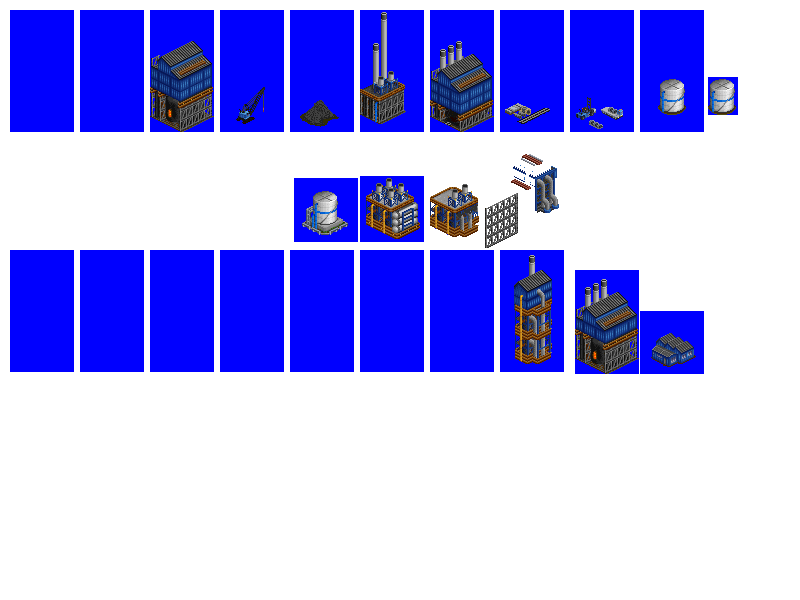
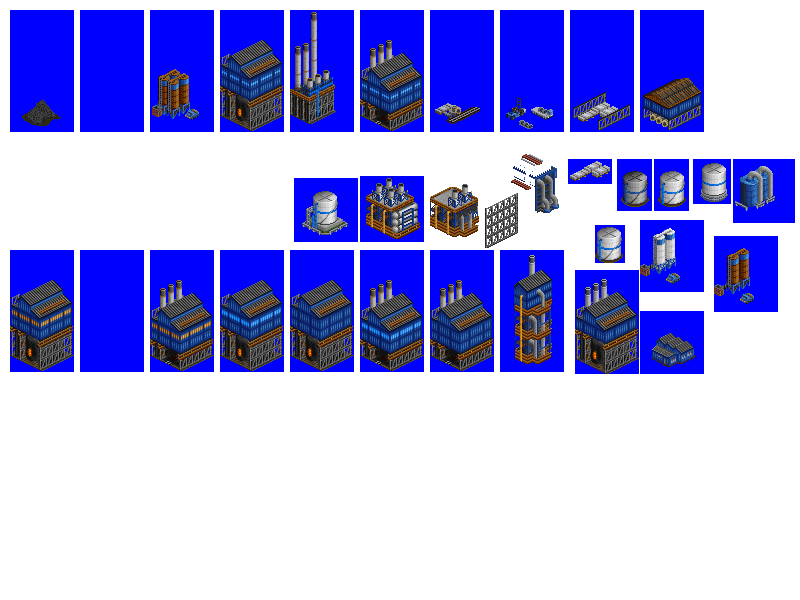
Change: improved sprites for Basic Oxygen Furnace

diff --git a/src/industries/basic_oxygen_furnace.py b/src/industries/basic_oxygen_furnace.py
@@ -33,43 +33,44 @@ sprite_ground_overlay = industry.add_spriteset(
     type='empty',
 )
 # unused
-"""
-spriteset_roaster_1 = industry.add_spriteset(
-    sprites = [(80, 10, 64, 122, -31, -90)],
-)
-spriteset_chimney = industry.add_spriteset(
-    sprites=[(150, 10, 64, 122, -31, -90)],
-)
-"""
-spriteset_furnace_1 = industry.add_spriteset(
-    sprites=[(150, 10, 64, 122, -31, -90)],
-)
-spriteset_crane = industry.add_spriteset(
-    sprites=[(220, 10, 64, 122, -31, -90)],
-)
 spriteset_manganese_1 = industry.add_spriteset(
-    sprites=[(290, 10, 64, 122, -31, -90)],
-)
-spriteset_air_plant_2 = industry.add_spriteset(
-    sprites=[(360, 10, 64, 122, -31, -90)],
-)
-spriteset_furnace_2 = industry.add_spriteset(
-    sprites=[(430, 10, 64, 122, -31, -90)],
-)
-spriteset_metal_1 = industry.add_spriteset(
-    sprites=[(500, 10, 64, 122, -31, -90)],
-)
-spriteset_metal_2 = industry.add_spriteset(
-    sprites=[(570, 10, 64, 122, -31, -90)],
+    sprites=[(10, 10, 64, 122, -31, -90)],
 )
 spriteset_tanks = industry.add_spriteset(
+    sprites=[(150, 10, 64, 122, -31, -90)],
+)
+spriteset_furnace = industry.add_spriteset(
+    sprites=[(220, 10, 64, 122, -31, -90)],
+)
+spriteset_air_plant = industry.add_spriteset(
+    sprites=[(290, 10, 64, 122, -31, -90)],
+)
+spriteset_caster = industry.add_spriteset(
+    sprites=[(360, 10, 64, 122, -31, -90)],
+)
+spriteset_metal_1 = industry.add_spriteset(
+    sprites=[(430, 10, 64, 122, -31, -90)],
+)
+spriteset_metal_2 = industry.add_spriteset(
+    sprites=[(500, 10, 64, 122, -31, -90)],
+)
+spriteset_metal_3 = industry.add_spriteset(
+    sprites=[(570, 10, 64, 122, -31, -90)],
+)
+spriteset_shed = industry.add_spriteset(
     sprites=[(640, 10, 64, 122, -31, -90)],
 )
-sprite_smoke = industry.add_smoke_sprite(
+sprite_smoke_1 = industry.add_smoke_sprite(
     smoke_type='white_smoke_big',
     xoffset=1,
     yoffset=0,
-    zoffset=64,
+    zoffset=61,
+)
+sprite_smoke_2 = industry.add_smoke_sprite(
+    smoke_type='white_smoke_big',
+    xoffset=4,
+    yoffset=1,
+    zoffset=93,
 )
 
 industry.add_spritelayout(
@@ -80,20 +81,6 @@ industry.add_spritelayout(
     fences=['nw', 'ne', 'se', 'sw']
 )
 industry.add_spritelayout(
-    id='basic_oxygen_furnace_spritelayout_metal_2',
-    ground_sprite=sprite_ground,
-    ground_overlay=sprite_ground_overlay,
-    building_sprites=[spriteset_metal_2],
-    fences=['nw', 'ne', 'se', 'sw']
-)
-industry.add_spritelayout(
-    id='basic_oxygen_furnace_spritelayout_crane',
-    ground_sprite=sprite_ground,
-    ground_overlay=sprite_ground_overlay,
-    building_sprites=[spriteset_crane],
-    fences=['nw', 'ne', 'se', 'sw']
-)
-industry.add_spritelayout(
     id='basic_oxygen_furnace_spritelayout_manganese_1',
     ground_sprite=sprite_ground,
     ground_overlay=sprite_ground_overlay,
@@ -101,26 +88,33 @@ industry.add_spritelayout(
     fences=['nw', 'ne', 'se', 'sw']
 )
 industry.add_spritelayout(
-    id='basic_oxygen_furnace_spritelayout_air_plant_2',
+    id='basic_oxygen_furnace_spritelayout_tanks',
     ground_sprite=sprite_ground,
     ground_overlay=sprite_ground_overlay,
-    building_sprites=[spriteset_air_plant_2],
+    building_sprites=[spriteset_tanks],
     fences=['nw', 'ne', 'se', 'sw']
 )
 industry.add_spritelayout(
-    id='basic_oxygen_furnace_spritelayout_furnace_1',
+    id='basic_oxygen_furnace_spritelayout_air_plant',
     ground_sprite=sprite_ground,
     ground_overlay=sprite_ground_overlay,
-    building_sprites=[spriteset_furnace_1],
-    smoke_sprites=[sprite_smoke],
+    building_sprites=[spriteset_air_plant],
+    smoke_sprites=[sprite_smoke_2],
     fences=['nw', 'ne', 'se', 'sw']
 )
 industry.add_spritelayout(
-    id='basic_oxygen_furnace_spritelayout_furnace_2',
+    id='basic_oxygen_furnace_spritelayout_furnace',
     ground_sprite=sprite_ground,
     ground_overlay=sprite_ground_overlay,
-    building_sprites=[spriteset_furnace_2],
-    smoke_sprites=[sprite_smoke],
+    building_sprites=[spriteset_furnace],
+    fences=['nw', 'ne', 'se', 'sw']
+)
+industry.add_spritelayout(
+    id='basic_oxygen_furnace_spritelayout_caster',
+    ground_sprite=sprite_ground,
+    ground_overlay=sprite_ground_overlay,
+    building_sprites=[spriteset_caster],
+    smoke_sprites=[sprite_smoke_1],
     fences=['nw', 'ne', 'se', 'sw']
 )
 industry.add_spritelayout(
@@ -131,25 +125,39 @@ industry.add_spritelayout(
     fences=['nw', 'ne', 'se', 'sw']
 )
 industry.add_spritelayout(
-    id='basic_oxygen_furnace_spritelayout_tanks',
+    id='basic_oxygen_furnace_spritelayout_metal_2',
     ground_sprite=sprite_ground,
     ground_overlay=sprite_ground_overlay,
-    building_sprites=[spriteset_tanks],
+    building_sprites=[spriteset_metal_2],
+    fences=['nw', 'ne', 'se', 'sw']
+)
+industry.add_spritelayout(
+    id='basic_oxygen_furnace_spritelayout_metal_3',
+    ground_sprite=sprite_ground,
+    ground_overlay=sprite_ground_overlay,
+    building_sprites=[spriteset_metal_3],
+    fences=['nw', 'ne', 'se', 'sw']
+)
+industry.add_spritelayout(
+    id='basic_oxygen_furnace_spritelayout_shed',
+    ground_sprite=sprite_ground,
+    ground_overlay=sprite_ground_overlay,
+    building_sprites=[spriteset_shed],
     fences=['nw', 'ne', 'se', 'sw']
 )
 
 industry.add_industry_layout(
     id='basic_oxygen_furnace_industry_layout_1',
-    layout=[(0, 0, 'basic_oxygen_furnace_tile_1', 'basic_oxygen_furnace_spritelayout_furnace_1'),
+    layout=[(0, 0, 'basic_oxygen_furnace_tile_1', 'basic_oxygen_furnace_spritelayout_furnace'),
             (0, 1, 'basic_oxygen_furnace_tile_1', 'basic_oxygen_furnace_spritelayout_empty'),
-            (0, 2, 'basic_oxygen_furnace_tile_1', 'basic_oxygen_furnace_spritelayout_furnace_1'),
+            (0, 2, 'basic_oxygen_furnace_tile_1', 'basic_oxygen_furnace_spritelayout_furnace'),
             (0, 3, 'basic_oxygen_furnace_tile_1', 'basic_oxygen_furnace_spritelayout_empty'),
             (0, 4, 'basic_oxygen_furnace_tile_1', 'basic_oxygen_furnace_spritelayout_empty'),
-            (1, 0, 'basic_oxygen_furnace_tile_1', 'basic_oxygen_furnace_spritelayout_crane'),
-            (1, 1, 'basic_oxygen_furnace_tile_1', 'basic_oxygen_furnace_spritelayout_furnace_1'),
-            (1, 2, 'basic_oxygen_furnace_tile_1', 'basic_oxygen_furnace_spritelayout_furnace_1'),
+            (1, 0, 'basic_oxygen_furnace_tile_1', 'basic_oxygen_furnace_spritelayout_shed'),
+            (1, 1, 'basic_oxygen_furnace_tile_1', 'basic_oxygen_furnace_spritelayout_furnace'),
+            (1, 2, 'basic_oxygen_furnace_tile_1', 'basic_oxygen_furnace_spritelayout_furnace'),
             (1, 3, 'basic_oxygen_furnace_tile_1', 'basic_oxygen_furnace_spritelayout_empty'),
-            (1, 4, 'basic_oxygen_furnace_tile_1', 'basic_oxygen_furnace_spritelayout_air_plant_2'),
+            (1, 4, 'basic_oxygen_furnace_tile_1', 'basic_oxygen_furnace_spritelayout_air_plant'),
             (2, 0, 'basic_oxygen_furnace_tile_1', 'basic_oxygen_furnace_spritelayout_tanks'),
             (2, 1, 'basic_oxygen_furnace_tile_1', 'basic_oxygen_furnace_spritelayout_metal_2'),
             (2, 2, 'basic_oxygen_furnace_tile_1', 'basic_oxygen_furnace_spritelayout_metal_1'),
@@ -159,16 +167,16 @@ industry.add_industry_layout(
 )
 industry.add_industry_layout(
     id='basic_oxygen_furnace_industry_layout_2',
-    layout=[(0, 0, 'basic_oxygen_furnace_tile_1', 'basic_oxygen_furnace_spritelayout_furnace_1'),
+    layout=[(0, 0, 'basic_oxygen_furnace_tile_1', 'basic_oxygen_furnace_spritelayout_furnace'),
             (0, 1, 'basic_oxygen_furnace_tile_1', 'basic_oxygen_furnace_spritelayout_empty'),
             (0, 2, 'basic_oxygen_furnace_tile_1', 'basic_oxygen_furnace_spritelayout_empty'),
-            (0, 3, 'basic_oxygen_furnace_tile_1', 'basic_oxygen_furnace_spritelayout_air_plant_2'),
-            (1, 0, 'basic_oxygen_furnace_tile_1', 'basic_oxygen_furnace_spritelayout_furnace_1'),
-            (1, 1, 'basic_oxygen_furnace_tile_1', 'basic_oxygen_furnace_spritelayout_furnace_1'),
+            (0, 3, 'basic_oxygen_furnace_tile_1', 'basic_oxygen_furnace_spritelayout_air_plant'),
+            (1, 0, 'basic_oxygen_furnace_tile_1', 'basic_oxygen_furnace_spritelayout_furnace'),
+            (1, 1, 'basic_oxygen_furnace_tile_1', 'basic_oxygen_furnace_spritelayout_furnace'),
             (1, 2, 'basic_oxygen_furnace_tile_1', 'basic_oxygen_furnace_spritelayout_empty'),
             (1, 3, 'basic_oxygen_furnace_tile_1', 'basic_oxygen_furnace_spritelayout_manganese_1'),
-            (2, 0, 'basic_oxygen_furnace_tile_1', 'basic_oxygen_furnace_spritelayout_furnace_1'),
-            (2, 1, 'basic_oxygen_furnace_tile_1', 'basic_oxygen_furnace_spritelayout_crane'),
+            (2, 0, 'basic_oxygen_furnace_tile_1', 'basic_oxygen_furnace_spritelayout_furnace'),
+            (2, 1, 'basic_oxygen_furnace_tile_1', 'basic_oxygen_furnace_spritelayout_shed'),
             (2, 2, 'basic_oxygen_furnace_tile_1', 'basic_oxygen_furnace_spritelayout_empty'),
             (2, 3, 'basic_oxygen_furnace_tile_1', 'basic_oxygen_furnace_spritelayout_empty'),
             (3, 0, 'basic_oxygen_furnace_tile_1', 'basic_oxygen_furnace_spritelayout_metal_2'),
@@ -183,12 +191,12 @@ industry.add_industry_layout(
             (0, 1, 'basic_oxygen_furnace_tile_1', 'basic_oxygen_furnace_spritelayout_empty'),
             (0, 2, 'basic_oxygen_furnace_tile_1', 'basic_oxygen_furnace_spritelayout_empty'),
             (1, 0, 'basic_oxygen_furnace_tile_1', 'basic_oxygen_furnace_spritelayout_empty'),
-            (1, 1, 'basic_oxygen_furnace_tile_1', 'basic_oxygen_furnace_spritelayout_furnace_1'),
-            (1, 2, 'basic_oxygen_furnace_tile_1', 'basic_oxygen_furnace_spritelayout_furnace_1'),
-            (2, 0, 'basic_oxygen_furnace_tile_1', 'basic_oxygen_furnace_spritelayout_crane'),
-            (2, 1, 'basic_oxygen_furnace_tile_1', 'basic_oxygen_furnace_spritelayout_furnace_1'),
-            (2, 2, 'basic_oxygen_furnace_tile_1', 'basic_oxygen_furnace_spritelayout_furnace_1'),
-            (3, 0, 'basic_oxygen_furnace_tile_1', 'basic_oxygen_furnace_spritelayout_air_plant_2'),
+            (1, 1, 'basic_oxygen_furnace_tile_1', 'basic_oxygen_furnace_spritelayout_furnace'),
+            (1, 2, 'basic_oxygen_furnace_tile_1', 'basic_oxygen_furnace_spritelayout_furnace'),
+            (2, 0, 'basic_oxygen_furnace_tile_1', 'basic_oxygen_furnace_spritelayout_shed'),
+            (2, 1, 'basic_oxygen_furnace_tile_1', 'basic_oxygen_furnace_spritelayout_furnace'),
+            (2, 2, 'basic_oxygen_furnace_tile_1', 'basic_oxygen_furnace_spritelayout_furnace'),
+            (3, 0, 'basic_oxygen_furnace_tile_1', 'basic_oxygen_furnace_spritelayout_air_plant'),
             (3, 1, 'basic_oxygen_furnace_tile_1', 'basic_oxygen_furnace_spritelayout_metal_2'),
             (3, 2, 'basic_oxygen_furnace_tile_1', 'basic_oxygen_furnace_spritelayout_metal_1'),
             (4, 0, 'basic_oxygen_furnace_tile_1', 'basic_oxygen_furnace_spritelayout_manganese_1'),
@@ -198,20 +206,20 @@ industry.add_industry_layout(
 )
 industry.add_industry_layout(
     id='basic_oxygen_furnace_industry_layout_4',
-    layout=[(0, 0, 'basic_oxygen_furnace_tile_1', 'basic_oxygen_furnace_spritelayout_furnace_2'),
-            (0, 1, 'basic_oxygen_furnace_tile_1', 'basic_oxygen_furnace_spritelayout_empty'),
-            (0, 2, 'basic_oxygen_furnace_tile_1', 'basic_oxygen_furnace_spritelayout_manganese_1'),
-            (1, 0, 'basic_oxygen_furnace_tile_1', 'basic_oxygen_furnace_spritelayout_furnace_2'),
-            (1, 1, 'basic_oxygen_furnace_tile_1', 'basic_oxygen_furnace_spritelayout_furnace_1'),
-            (1, 2, 'basic_oxygen_furnace_tile_1', 'basic_oxygen_furnace_spritelayout_air_plant_2'),
-            (2, 0, 'basic_oxygen_furnace_tile_1', 'basic_oxygen_furnace_spritelayout_furnace_2'),
-            (2, 1, 'basic_oxygen_furnace_tile_1', 'basic_oxygen_furnace_spritelayout_furnace_1'),
+    layout=[(0, 0, 'basic_oxygen_furnace_tile_1', 'basic_oxygen_furnace_spritelayout_caster'),
+            (0, 1, 'basic_oxygen_furnace_tile_1', 'basic_oxygen_furnace_spritelayout_shed'),
+            (0, 2, 'basic_oxygen_furnace_tile_1', 'basic_oxygen_furnace_spritelayout_metal_3'),
+            (1, 0, 'basic_oxygen_furnace_tile_1', 'basic_oxygen_furnace_spritelayout_caster'),
+            (1, 1, 'basic_oxygen_furnace_tile_1', 'basic_oxygen_furnace_spritelayout_furnace'),
+            (1, 2, 'basic_oxygen_furnace_tile_1', 'basic_oxygen_furnace_spritelayout_air_plant'),
+            (2, 0, 'basic_oxygen_furnace_tile_1', 'basic_oxygen_furnace_spritelayout_caster'),
+            (2, 1, 'basic_oxygen_furnace_tile_1', 'basic_oxygen_furnace_spritelayout_furnace'),
             (2, 2, 'basic_oxygen_furnace_tile_1', 'basic_oxygen_furnace_spritelayout_tanks'),
-            (3, 0, 'basic_oxygen_furnace_tile_1', 'basic_oxygen_furnace_spritelayout_furnace_2'),
-            (3, 1, 'basic_oxygen_furnace_tile_1', 'basic_oxygen_furnace_spritelayout_empty'),
-            (3, 2, 'basic_oxygen_furnace_tile_1', 'basic_oxygen_furnace_spritelayout_empty'),
+            (3, 0, 'basic_oxygen_furnace_tile_1', 'basic_oxygen_furnace_spritelayout_caster'),
+            (3, 1, 'basic_oxygen_furnace_tile_1', 'basic_oxygen_furnace_spritelayout_metal_3'),
+            (3, 2, 'basic_oxygen_furnace_tile_1', 'basic_oxygen_furnace_spritelayout_manganese_1'),
             (4, 0, 'basic_oxygen_furnace_tile_1', 'basic_oxygen_furnace_spritelayout_metal_1'),
             (4, 1, 'basic_oxygen_furnace_tile_1', 'basic_oxygen_furnace_spritelayout_metal_2'),
-            (4, 2, 'basic_oxygen_furnace_tile_1', 'basic_oxygen_furnace_spritelayout_crane'),
+            (4, 2, 'basic_oxygen_furnace_tile_1', 'basic_oxygen_furnace_spritelayout_empty'),
             ]
 )
